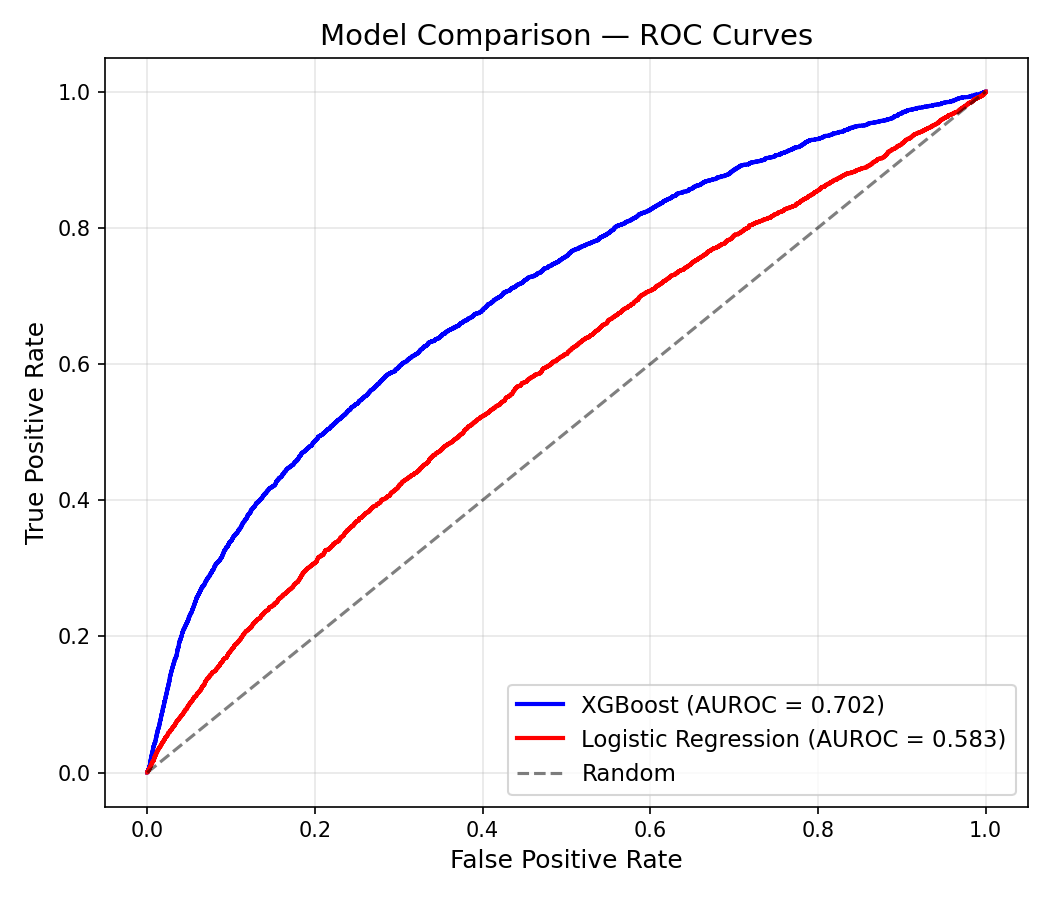
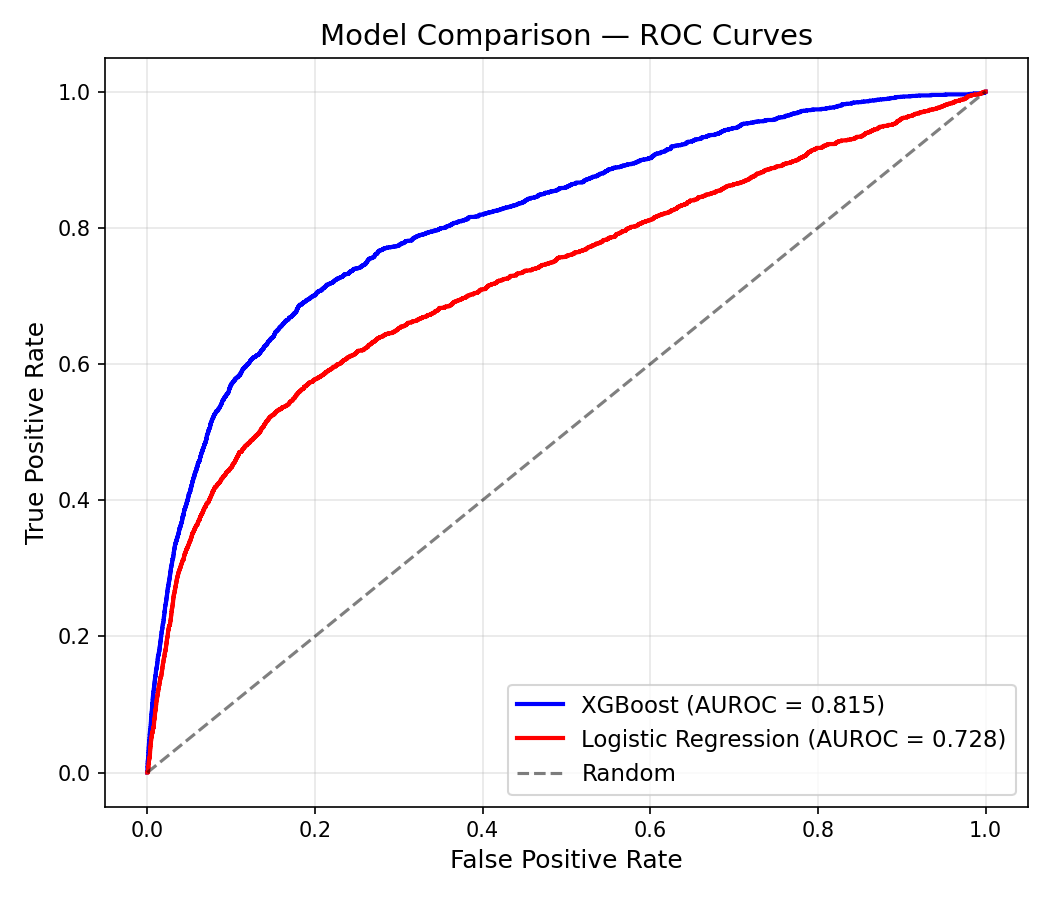
LR now uses same 21 features as XGBoost for fair comparison

diff --git a/app.py b/app.py
@@ -95,7 +95,7 @@ with st.sidebar:
         st.warning("No Gemini API key")
 
 # Tabs
-tab1, tab2, tab3 = st.tabs(["Patient Assessment", "Batch Analysis", "About"])
+tab1, tab2 = st.tabs(["Patient Assessment", "About"])
 
 with tab1:
     st.header("Patient Vital Signs")
@@ -248,38 +248,15 @@ Provide concise bullet-point recommendations. Note this is AI-generated and requ
             st.caption("⚠ AI-generated clinical decision support. All recommendations require physician review.")
 
 with tab2:
-    st.header("Batch Patient Analysis")
-    st.write("Upload a CSV with patient vitals.")
-    uploaded = st.file_uploader("Upload CSV", type=["csv"])
-    if uploaded:
-        batch_df = pd.read_csv(uploaded)
-        st.dataframe(batch_df.head(), use_container_width=True)
-        if st.button("Run Batch Assessment") and "xgb" in models:
-            xgb_data = models["xgb"]
-            X = batch_df.reindex(columns=xgb_data["feature_cols"], fill_value=0).values
-            batch_df["risk_score"] = xgb_data["model"].predict_proba(X)[:, 1]
-            batch_df["risk_level"] = pd.cut(batch_df["risk_score"], bins=[0, 0.4, 0.7, 1.0],
-                                            labels=["LOW", "MODERATE", "HIGH"])
-            st.dataframe(batch_df, use_container_width=True)
-            c1, c2, c3 = st.columns(3)
-            c1.metric("Total", len(batch_df))
-            c2.metric("High Risk", (batch_df["risk_level"] == "HIGH").sum())
-            c3.metric("Moderate Risk", (batch_df["risk_level"] == "MODERATE").sum())
-
-with tab3:
     st.header("About SepsisGuard")
     st.markdown("""
     **SepsisGuard** is an AI-powered clinical decision support system for early sepsis detection.
 
-    ### Models (trained on 40,336 ICU patients)
+    ### Models (trained on 40,336 ICU patients, 21 features each)
     | Model | Features | AUROC | Role |
     |-------|----------|-------|------|
-    | **XGBoost** | 21 (vitals + labs + demographics) | **0.70** | Primary (dashboard) |
-    | **LSTM** | 21 (24hr sequences) | **0.83** | Best on time-series data |
-    | **Logistic Regression** | 6 (vitals only) | **0.59** | Baseline |
-
-    *Note: LSTM achieves the highest AUROC but requires 24-hour patient sequences.
-    The dashboard uses XGBoost for single-timepoint assessment.*
+    | **XGBoost** | 21 (vitals + labs + demographics) | **0.70** | Primary |
+    | **Logistic Regression** | 21 (vitals + labs + demographics) | **0.61** | Baseline |
 
     ### RAG Pipeline
     Retrieves relevant Surviving Sepsis Campaign 2021 guidelines and generates

diff --git a/models/baseline_lr.py b/models/baseline_lr.py
@@ -56,7 +56,10 @@ def main() -> None:
     print()
 
     # 2. Prepare features
-    feature_cols = ["HR", "O2Sat", "Temp", "MAP", "Resp", "Age"]
+    feature_cols = ["HR", "O2Sat", "Temp", "SBP", "DBP", "MAP", "Resp",
+                     "Lactate", "WBC", "Creatinine", "Bilirubin_total", "Platelets",
+                     "BUN", "Glucose", "Hgb", "Hct", "pH",
+                     "Age", "Gender", "HospAdmTime", "ICULOS"]
     target_col = "early_sepsis_label"
 
     missing = [c for c in feature_cols if c not in df.columns]
@@ -71,9 +74,12 @@ def main() -> None:
         print(f"Error: Target column '{target_col}' not found.")
         sys.exit(1)
 
-    df_clean = df[feature_cols + [target_col, "patient_id"]].dropna(
-        subset=feature_cols
-    )
+    # Fill NaN with median (same as XGBoost for fair comparison)
+    for col in feature_cols:
+        if col in df.columns:
+            df[col] = df[col].fillna(df[col].median())
+
+    df_clean = df[feature_cols + [target_col, "patient_id"]].copy()
     X = df_clean[feature_cols]
     y = df_clean[target_col]
 
